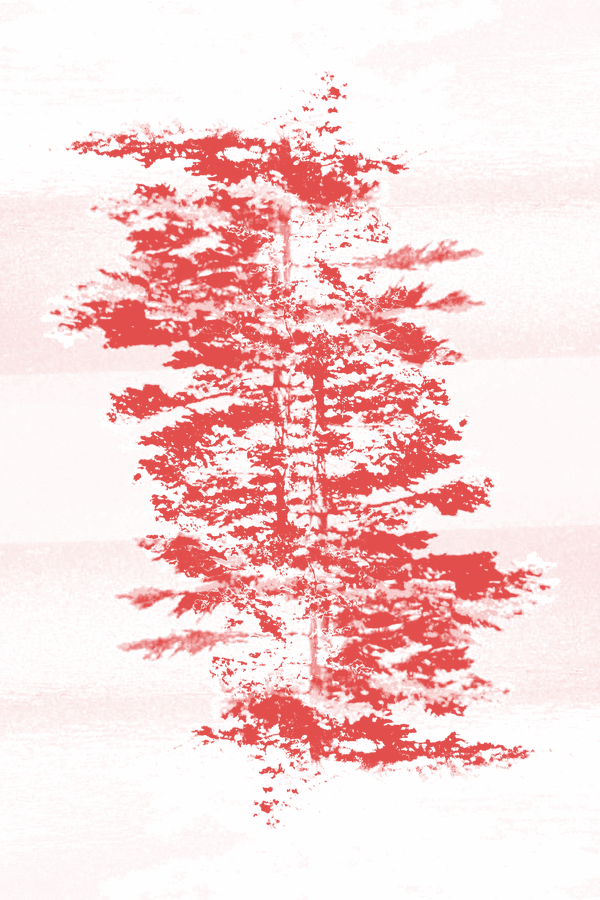
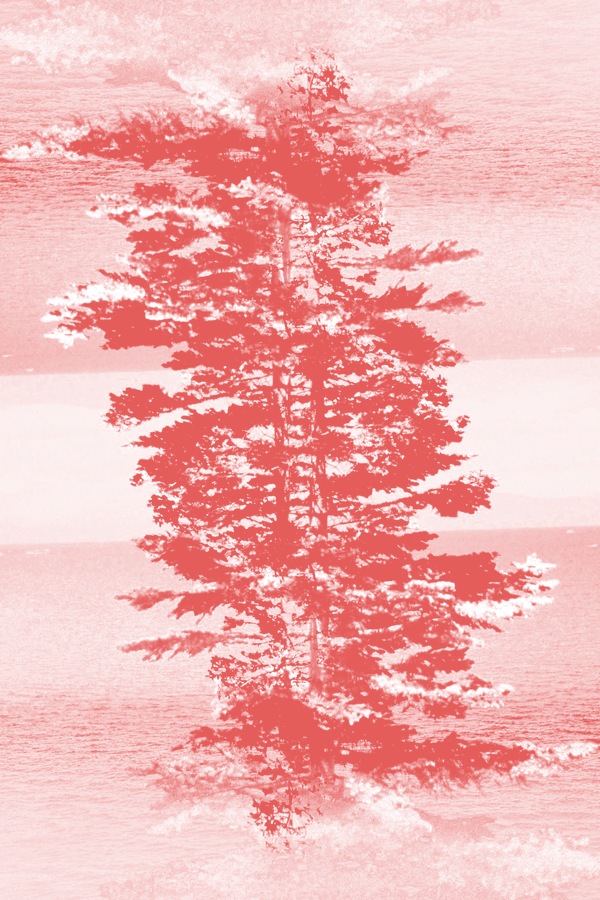
Drop copies-left counts, add Brooklyn and Instagram, real Bright Red layer
Jon doesn't want stock counts; sold out stays a manual status.
Bright Red layer for Tree now comes from the ink-2-bright-red plate in
Rounds/2026-04-29/Tree.sunflower-brightred-teal-kellygreen.psd.

Claude-Session: https://claude.ai/code/session_0114YYdtdYrdjRCMcHpdg4JE

diff --git a/assets/works.js b/assets/works.js
@@ -16,8 +16,7 @@
     year      year printed
     price     unframed price, shown as written, e.g. "$45"
     framed    framed price, or "" if not offered framed
-    left      how many of the edition are still for sale, e.g. "12" (shows "12 of 50 left"; "0" marks it sold out; leave "" to say nothing)
-    status    "available", "few-left" or "sold-out" (with "left" filled in, this is worked out for you)
+    status    "available" or "sold-out"
     image     photo of the print, e.g. "images/bpc-001.jpg" (leave "" to show an ink sketch)
     detail    optional close-up (not shown on the site for now), e.g. "images/bpc-001-detail.jpg"
     photo     optional second view on the print's page, e.g. a framed photo: "images/photos/bpc-001.jpg"
@@ -52,34 +51,34 @@ var EZGI_JON = 'Ezgi Eyigor & Jon Goldman';
 var TREE_ABOUT = 'A tree at Lake Tahoe, photographed on 35mm film, mirrored, and run through the risograph. Up close it reads as a tree; at a distance the separations drift slightly off-register and it resolves into overlapping fields of colour. The first run sold out at the Brooklyn Fine Art Print Fair in a day and a half.';
 
 window.BPC_WORKS = [
-  { no: 'BPC–001', title: 'Green Water', artist: EZGI_JON, type: 'Print', inks: [], size: '[Size]', pages: '', edition: '25', paper: '[Paper stock]', year: '2026', price: '$45', framed: '$120', left: '', status: 'available',
+  { no: 'BPC–001', title: 'Green Water', artist: EZGI_JON, type: 'Print', inks: [], size: '[Size]', pages: '', edition: '25', paper: '[Paper stock]', year: '2026', price: '$45', framed: '$120', status: 'available',
     image: 'images/green-water.jpg', photo: 'images/photos/green-water.jpg', detail: 'images/green-water-detail.jpg', buy: '',
     about: '[Two lines about Green Water.] Signed and numbered in pencil by both artists.' },
-  { no: 'BPC–002', title: 'Untitled (Tree Composition)', artist: EZGI_JON, type: 'Print', colorway: 'Sunflower and Bright Red', inks: ['Sunflower', 'Bright Red'], size: '11 × 17 in', pages: '', edition: '50', paper: 'Speckletone, 80 lb', year: '2026', price: '$45', framed: '$95', left: '', status: 'available',
+  { no: 'BPC–002', title: 'Untitled (Tree Composition)', artist: EZGI_JON, type: 'Print', colorway: 'Sunflower and Bright Red', inks: ['Sunflower', 'Bright Red'], size: '11 × 17 in', pages: '', edition: '50', paper: 'Speckletone, 80 lb', year: '2026', price: '$45', framed: '$95', status: 'available',
     image: 'images/tree-sunflower-red.jpg', photo: 'images/photos/tree-sunflower-red.jpg', layers: ['images/layers/tree-sunflower-red-1.webp', 'images/layers/tree-sunflower-red-2.webp'], detail: 'images/tree-sunflower-red-detail.jpg', buy: '', about: TREE_ABOUT },
-  { no: 'BPC–003', title: 'Untitled (Tree Composition)', artist: EZGI_JON, type: 'Print', colorway: 'Purple and Fluorescent Pink', inks: ['Purple', 'Fluorescent Pink'], size: '11 × 17 in', pages: '', edition: '50', paper: 'Speckletone, 80 lb', year: '2026', price: '$45', framed: '$95', left: '', status: 'available',
+  { no: 'BPC–003', title: 'Untitled (Tree Composition)', artist: EZGI_JON, type: 'Print', colorway: 'Purple and Fluorescent Pink', inks: ['Purple', 'Fluorescent Pink'], size: '11 × 17 in', pages: '', edition: '50', paper: 'Speckletone, 80 lb', year: '2026', price: '$45', framed: '$95', status: 'available',
     image: 'images/tree-purple-pink.jpg', photo: 'images/photos/tree-purple-pink.jpg', layers: ['images/layers/tree-purple-pink-1.webp', 'images/layers/tree-purple-pink-2.webp'], detail: 'images/tree-purple-pink-detail.jpg', buy: '', about: TREE_ABOUT },
-  { no: 'BPC–004', title: 'Untitled (Tree Composition)', artist: EZGI_JON, type: 'Print', colorway: 'Kelly Green and Teal', inks: ['Kelly Green', 'Teal'], size: '11 × 17 in', pages: '', edition: '50', paper: 'Speckletone, 80 lb', year: '2026', price: '$45', framed: '$95', left: '', status: 'available',
+  { no: 'BPC–004', title: 'Untitled (Tree Composition)', artist: EZGI_JON, type: 'Print', colorway: 'Kelly Green and Teal', inks: ['Kelly Green', 'Teal'], size: '11 × 17 in', pages: '', edition: '50', paper: 'Speckletone, 80 lb', year: '2026', price: '$45', framed: '$95', status: 'available',
     image: 'images/tree-green-teal.jpg', photo: 'images/photos/tree-green-teal.jpg', layers: ['images/layers/tree-green-teal-1.webp', 'images/layers/tree-green-teal-2.webp'], detail: 'images/tree-green-teal-detail.jpg', buy: '', about: TREE_ABOUT },
-  { no: 'BPC–005', title: 'Matador', artist: 'Jon Goldman', type: 'Print', inks: [], size: '[Size]', pages: '', edition: '25', paper: '[Paper stock]', year: '2026', price: '[PRICE]', framed: '', left: '', status: 'available',
+  { no: 'BPC–005', title: 'Matador', artist: 'Jon Goldman', type: 'Print', inks: [], size: '[Size]', pages: '', edition: '25', paper: '[Paper stock]', year: '2026', price: '[PRICE]', framed: '', status: 'available',
     image: 'images/matador.jpg', photo: 'images/photos/matador.jpg', detail: 'images/matador-detail.jpg', buy: '',
     about: '[Two lines about Matador.]' },
-  { no: 'BPC–006', title: 'Water Stone Gradient', artist: '[Artist]', type: 'Print', inks: [], size: '[Size]', pages: '', edition: '[N]', paper: 'Speckletone', year: '[Year]', price: '[PRICE]', framed: '', left: '', status: 'available',
+  { no: 'BPC–006', title: 'Water Stone Gradient', artist: '[Artist]', type: 'Print', inks: [], size: '[Size]', pages: '', edition: '[N]', paper: 'Speckletone', year: '[Year]', price: '[PRICE]', framed: '', status: 'available',
     image: 'images/water-stone-gradient.jpg', detail: '', buy: '', about: '[Two lines about Water Stone Gradient.]' },
-  { no: 'BPC–007', title: 'Sparkle', artist: '[Artist]', type: 'Print', inks: [], size: '[Size]', pages: '', edition: '[N]', paper: '[Paper stock]', year: '[Year]', price: '[PRICE]', framed: '', left: '', status: 'available',
+  { no: 'BPC–007', title: 'Sparkle', artist: '[Artist]', type: 'Print', inks: [], size: '[Size]', pages: '', edition: '[N]', paper: '[Paper stock]', year: '[Year]', price: '[PRICE]', framed: '', status: 'available',
     image: 'images/sparkle.jpg', detail: '', buy: '', about: '[Two lines about Sparkle.]' },
-  { no: 'BPC–008', title: 'Seeing Through Trees', artist: '[Artist]', type: 'Print', inks: [], size: '[Size]', pages: '', edition: '[N]', paper: 'Speckletone', year: '[Year]', price: '[PRICE]', framed: '', left: '', status: 'available',
+  { no: 'BPC–008', title: 'Seeing Through Trees', artist: '[Artist]', type: 'Print', inks: [], size: '[Size]', pages: '', edition: '[N]', paper: 'Speckletone', year: '[Year]', price: '[PRICE]', framed: '', status: 'available',
     image: 'images/seeing-through-trees.jpg', detail: '', buy: '', about: '[Two lines about Seeing Through Trees.]' },
-  { no: 'BPC–009', title: 'Rainbowburn', artist: '[Artist]', type: 'Print', inks: [], size: '[Size]', pages: '', edition: '[N]', paper: 'Speckletone', year: '[Year]', price: '[PRICE]', framed: '', left: '', status: 'available',
+  { no: 'BPC–009', title: 'Rainbowburn', artist: '[Artist]', type: 'Print', inks: [], size: '[Size]', pages: '', edition: '[N]', paper: 'Speckletone', year: '[Year]', price: '[PRICE]', framed: '', status: 'available',
     image: 'images/rainbowburn.jpg', detail: '', buy: '', about: '[Two lines about Rainbowburn.]' },
-  { no: 'BPC–010', title: 'Flowers Up', artist: '[Artist]', type: 'Print', inks: [], size: '[Size]', pages: '', edition: '[N]', paper: 'Speckletone', year: '[Year]', price: '[PRICE]', framed: '', left: '', status: 'available',
+  { no: 'BPC–010', title: 'Flowers Up', artist: '[Artist]', type: 'Print', inks: [], size: '[Size]', pages: '', edition: '[N]', paper: 'Speckletone', year: '[Year]', price: '[PRICE]', framed: '', status: 'available',
     image: 'images/flowers-up.jpg', detail: '', buy: '', about: '[Two lines about Flowers Up.]' },
-  { no: 'BPC–011', title: 'Foliage', artist: '[Artist]', type: 'Print', inks: [], size: '[Size]', pages: '', edition: '[N]', paper: '[Paper stock]', year: '[Year]', price: '[PRICE]', framed: '', left: '', status: 'available',
+  { no: 'BPC–011', title: 'Foliage', artist: '[Artist]', type: 'Print', inks: [], size: '[Size]', pages: '', edition: '[N]', paper: '[Paper stock]', year: '[Year]', price: '[PRICE]', framed: '', status: 'available',
     image: 'images/foliage.jpg', detail: '', buy: '', about: '[Two lines about Foliage.]' },
-  { no: 'BPC–012', title: 'Flowers 4', artist: '[Artist]', type: 'Print', inks: [], size: '[Size]', pages: '', edition: '[N]', paper: 'Speckletone', year: '[Year]', price: '[PRICE]', framed: '', left: '', status: 'available',
+  { no: 'BPC–012', title: 'Flowers 4', artist: '[Artist]', type: 'Print', inks: [], size: '[Size]', pages: '', edition: '[N]', paper: 'Speckletone', year: '[Year]', price: '[PRICE]', framed: '', status: 'available',
     image: 'images/flowers-4.jpg', detail: '', buy: '', about: '[Two lines about Flowers 4.]' },
-  { no: 'BPC–013', title: 'Dark Water', artist: '[Artist]', type: 'Print', inks: [], size: '[Size]', pages: '', edition: '[N]', paper: 'Speckletone', year: '[Year]', price: '[PRICE]', framed: '', left: '', status: 'available',
+  { no: 'BPC–013', title: 'Dark Water', artist: '[Artist]', type: 'Print', inks: [], size: '[Size]', pages: '', edition: '[N]', paper: 'Speckletone', year: '[Year]', price: '[PRICE]', framed: '', status: 'available',
     image: 'images/dark-water.jpg', detail: '', buy: '', about: '[Two lines about Dark Water.]' },
-  { no: 'BPC–014', title: 'Blue Water', artist: '[Artist]', type: 'Print', inks: [], size: '[Size]', pages: '', edition: '[N]', paper: '[Paper stock]', year: '[Year]', price: '[PRICE]', framed: '', left: '', status: 'available',
+  { no: 'BPC–014', title: 'Blue Water', artist: '[Artist]', type: 'Print', inks: [], size: '[Size]', pages: '', edition: '[N]', paper: '[Paper stock]', year: '[Year]', price: '[PRICE]', framed: '', status: 'available',
     image: 'images/blue-water.jpg', detail: '', buy: '', about: '[Two lines about Blue Water.]' }
 ];

diff --git a/assets/site.js b/assets/site.js
@@ -57,19 +57,10 @@
     }).join('') + '</span>';
   }
 
-  // Availability comes from works.js: "left" (copies still for sale) wins over "status".
-  function num(v) { var n = parseInt(v, 10); return isNaN(n) ? null : n; }
-  function isSold(w) { return w.status === 'sold-out' || num(w.left) === 0; }
-  function isFew(w) { var l = num(w.left); return !isSold(w) && (l !== null ? l <= 5 : w.status === 'few-left'); }
-  function leftText(w) {
-    if (isSold(w)) return 'Sold out';
-    var l = num(w.left), e = num(w.edition);
-    if (l === null) return w.status === 'few-left' ? 'Few left' : '';
-    return l + (e !== null ? ' of ' + e : '') + ' left';
-  }
+  // Sold out is set by hand in works.js (status: "sold-out"); there are no stock counts.
+  function isSold(w) { return w.status === 'sold-out'; }
   function statusLabel(w) {
     if (isSold(w)) return '<span class="status">Sold out</span>';
-    if (isFew(w)) return '<span class="status few">' + esc(leftText(w)) + '</span>';
     return '';
   }
 
@@ -122,7 +113,7 @@
             }).join('') : '[Inks]') + '</dd>' +
             '<dt>Size</dt><dd>' + size + '</dd>' +
             '<dt>Paper</dt><dd>' + esc(w.paper) + '</dd>' +
-            '<dt>Edition</dt><dd>' + esc(w.edition) + ', signed and numbered · ' + esc(w.year) + (leftText(w) && !isSold(w) ? '<br><span class="mute">' + esc(leftText(w)) + '</span>' : '') + '</dd>' +
+            '<dt>Edition</dt><dd>' + esc(w.edition) + ', signed and numbered · ' + esc(w.year) + '</dd>' +
             '<dt>Price</dt><dd>' + esc(w.price) + (w.framed ? ' unframed · ' + esc(w.framed) + ' framed (pickup in Brooklyn)' : '') + '</dd>' +
           '</dl>' +
           '<div class="buy">' + buy + '<a class="more" href="' + pageUrl(w) + '">See the full page</a></div>' +
@@ -175,7 +166,7 @@
       var w = WORKS[i], sold = isSold(w);
       return '<button type="button" class="plate ' + (w.image ? 'has-photo' : 'fmt-' + format(w)) + (sold ? ' is-sold' : '') + '" id="' + slug(w.no) + '-print" data-work="' + i + '" aria-label="' + esc(w.no + ', ' + w.title + ' by ' + w.artist + (sold ? ', sold out' : ', ' + w.price)) + '">' +
         picture(w, i) +
-        '<span class="cap"><span>' + esc(w.no) + ' · ' + esc(w.title) + ', ' + esc(w.artist) + (sold ? ' · Sold out' : isFew(w) ? ' · ' + esc(leftText(w)) : '') + '</span>' +
+        '<span class="cap"><span>' + esc(w.no) + ' · ' + esc(w.title) + ', ' + esc(w.artist) + (sold ? ' · Sold out' : '') + '</span>' +
         '<span>' + esc(inksText(w)) + ' · ' + esc(w.size) + '</span></span>' +
       '</button>';
     }).join('');
@@ -354,7 +345,7 @@
             '<dt>Inks</dt><dd class="inklist">' + inkList + '</dd>' +
             '<dt>Size</dt><dd>' + esc(w.size) + (w.pages ? ' · ' + esc(w.pages) : '') + '</dd>' +
             '<dt>Paper</dt><dd>' + esc(w.paper) + '</dd>' +
-            '<dt>Edition</dt><dd>' + esc(w.edition) + ', signed and numbered' + (leftText(w) ? ' · <span class="mute">' + esc(leftText(w)) + '</span>' : '') + '</dd>' +
+            '<dt>Edition</dt><dd>' + esc(w.edition) + ', signed and numbered' + '</dd>' +
             '<dt>Year</dt><dd>' + esc(w.year) + '</dd>' +
             '<dt>Price</dt><dd>' + esc(w.price) + (w.framed ? ' unframed · ' + esc(w.framed) + ' framed (pickup in Brooklyn)' : '') + '</dd>' +
           '</dl>' +

diff --git a/about.html b/about.html
@@ -68,8 +68,8 @@
       <p>For printing work, see <a href="printing.html#quote">Request a quote</a>. For anything else:</p>
       <dl class="facts">
         <dt>Email</dt><dd><a href="mailto:[hello@yourdomain]">[hello@yourdomain]</a></dd>
-        <dt>Instagram</dt><dd><a href="[https://instagram.com/your-handle]">[@your-handle]</a></dd>
-        <dt>Studio</dt><dd>[City] · visits by appointment</dd>
+        <dt>Instagram</dt><dd><a href="https://www.instagram.com/backyard.press.club/">@backyard.press.club</a></dd>
+        <dt>Studio</dt><dd>Brooklyn · visits by appointment</dd>
       </dl>
     </div>
   </section>
@@ -82,9 +82,9 @@
       <nav aria-label="Footer">
         <a href="about.html#contact">Contact</a>
         <a href="about.html#shipping">Shipping &amp; returns</a>
-        <a href="[https://instagram.com/your-handle]">Instagram</a>
+        <a href="https://www.instagram.com/backyard.press.club/">Instagram</a>
       </nav>
-      <span class="mono mute">© <span data-year>2026</span> Backyard Press Club · [City]</span>
+      <span class="mono mute">© <span data-year>2026</span> Backyard Press Club · Brooklyn</span>
     </div>
   </div>
 </footer>

diff --git a/index.html b/index.html
@@ -25,12 +25,12 @@
       <a href="catalogue.html">Catalogue</a>
       <a href="printing.html">Riso printing</a>
       <a href="about.html">About</a>
-      <a href="[https://instagram.com/your-handle]">Instagram</a>
+      <a href="https://www.instagram.com/backyard.press.club/">Instagram</a>
     </nav>
     <div class="index" role="list" aria-label="Index of works" data-index>
       <div class="index-row head mono" aria-hidden="true"><span>No.</span><span>Title, artist</span><span>Price</span></div>
     </div>
-    <p class="side-foot mono mute">© <span data-year>2026</span> Backyard Press Club · [City] · <a href="about.html#contact">Contact</a> · <a href="about.html#shipping">Shipping</a></p>
+    <p class="side-foot mono mute">© <span data-year>2026</span> Backyard Press Club · Brooklyn · <a href="about.html#contact">Contact</a> · <a href="about.html#shipping">Shipping</a></p>
   </aside>
   <main id="prints" class="split-main" data-prints aria-label="Prints">
     <noscript><p class="empty">Turn on JavaScript to browse the shop.</p></noscript>

diff --git a/printing.html b/printing.html
@@ -108,9 +108,9 @@
       <nav aria-label="Footer">
         <a href="about.html#contact">Contact</a>
         <a href="about.html#shipping">Shipping &amp; returns</a>
-        <a href="[https://instagram.com/your-handle]">Instagram</a>
+        <a href="https://www.instagram.com/backyard.press.club/">Instagram</a>
       </nav>
-      <span class="mono mute">© <span data-year>2026</span> Backyard Press Club · [City]</span>
+      <span class="mono mute">© <span data-year>2026</span> Backyard Press Club · Brooklyn</span>
     </div>
   </div>
 </footer>

diff --git a/404.html b/404.html
@@ -43,9 +43,9 @@
       <nav aria-label="Footer">
         <a href="about.html#contact">Contact</a>
         <a href="about.html#shipping">Shipping &amp; returns</a>
-        <a href="[https://instagram.com/your-handle]">Instagram</a>
+        <a href="https://www.instagram.com/backyard.press.club/">Instagram</a>
       </nav>
-      <span class="mono mute">© <span data-year>2026</span> Backyard Press Club · [City]</span>
+      <span class="mono mute">© <span data-year>2026</span> Backyard Press Club · Brooklyn</span>
     </div>
   </div>
 </footer>

diff --git a/catalogue.html b/catalogue.html
@@ -60,9 +60,9 @@
       <nav aria-label="Footer">
         <a href="about.html#contact">Contact</a>
         <a href="about.html#shipping">Shipping &amp; returns</a>
-        <a href="[https://instagram.com/your-handle]">Instagram</a>
+        <a href="https://www.instagram.com/backyard.press.club/">Instagram</a>
       </nav>
-      <span class="mono mute">© <span data-year>2026</span> Backyard Press Club · [City]</span>
+      <span class="mono mute">© <span data-year>2026</span> Backyard Press Club · Brooklyn</span>
     </div>
   </div>
 </footer>

diff --git a/print.html b/print.html
@@ -42,9 +42,9 @@
       <nav aria-label="Footer">
         <a href="about.html#contact">Contact</a>
         <a href="about.html#shipping">Shipping &amp; returns</a>
-        <a href="[https://instagram.com/your-handle]">Instagram</a>
+        <a href="https://www.instagram.com/backyard.press.club/">Instagram</a>
       </nav>
-      <span class="mono mute">© <span data-year>2026</span> Backyard Press Club · [City]</span>
+      <span class="mono mute">© <span data-year>2026</span> Backyard Press Club · Brooklyn</span>
     </div>
   </div>
 </footer>

diff --git a/README.md b/README.md
@@ -12,7 +12,7 @@ Plain HTML, CSS and JavaScript. No build step: open `index.html` in a browser to
 Everything comes from `assets/works.js`. Copy a block, fill it in, and:
 1. Put photos in an `images/` folder and set `image`.
 2. In Stripe, create a Payment Link for the print (Products → Payment Links), turn on "Let customers adjust quantity" and collect shipping address. Paste the link into `buy`.
-3. Set `left` to how many are still for sale, e.g. `"12"`. The site shows "12 of 50 left", flags it when 5 or fewer remain, and treats `"0"` as sold out: it moves to the end of the shop, fades back, and stays in the catalogue.
+3. When it sells out, set `status: "sold-out"`. It moves to the end of the shop, fades back, and stays in the catalogue.
 
 ## Still to fill
 Every `[bracketed]` item: titles, prices, paper, city, email, Instagram handle, and the margin size on the printing page.
